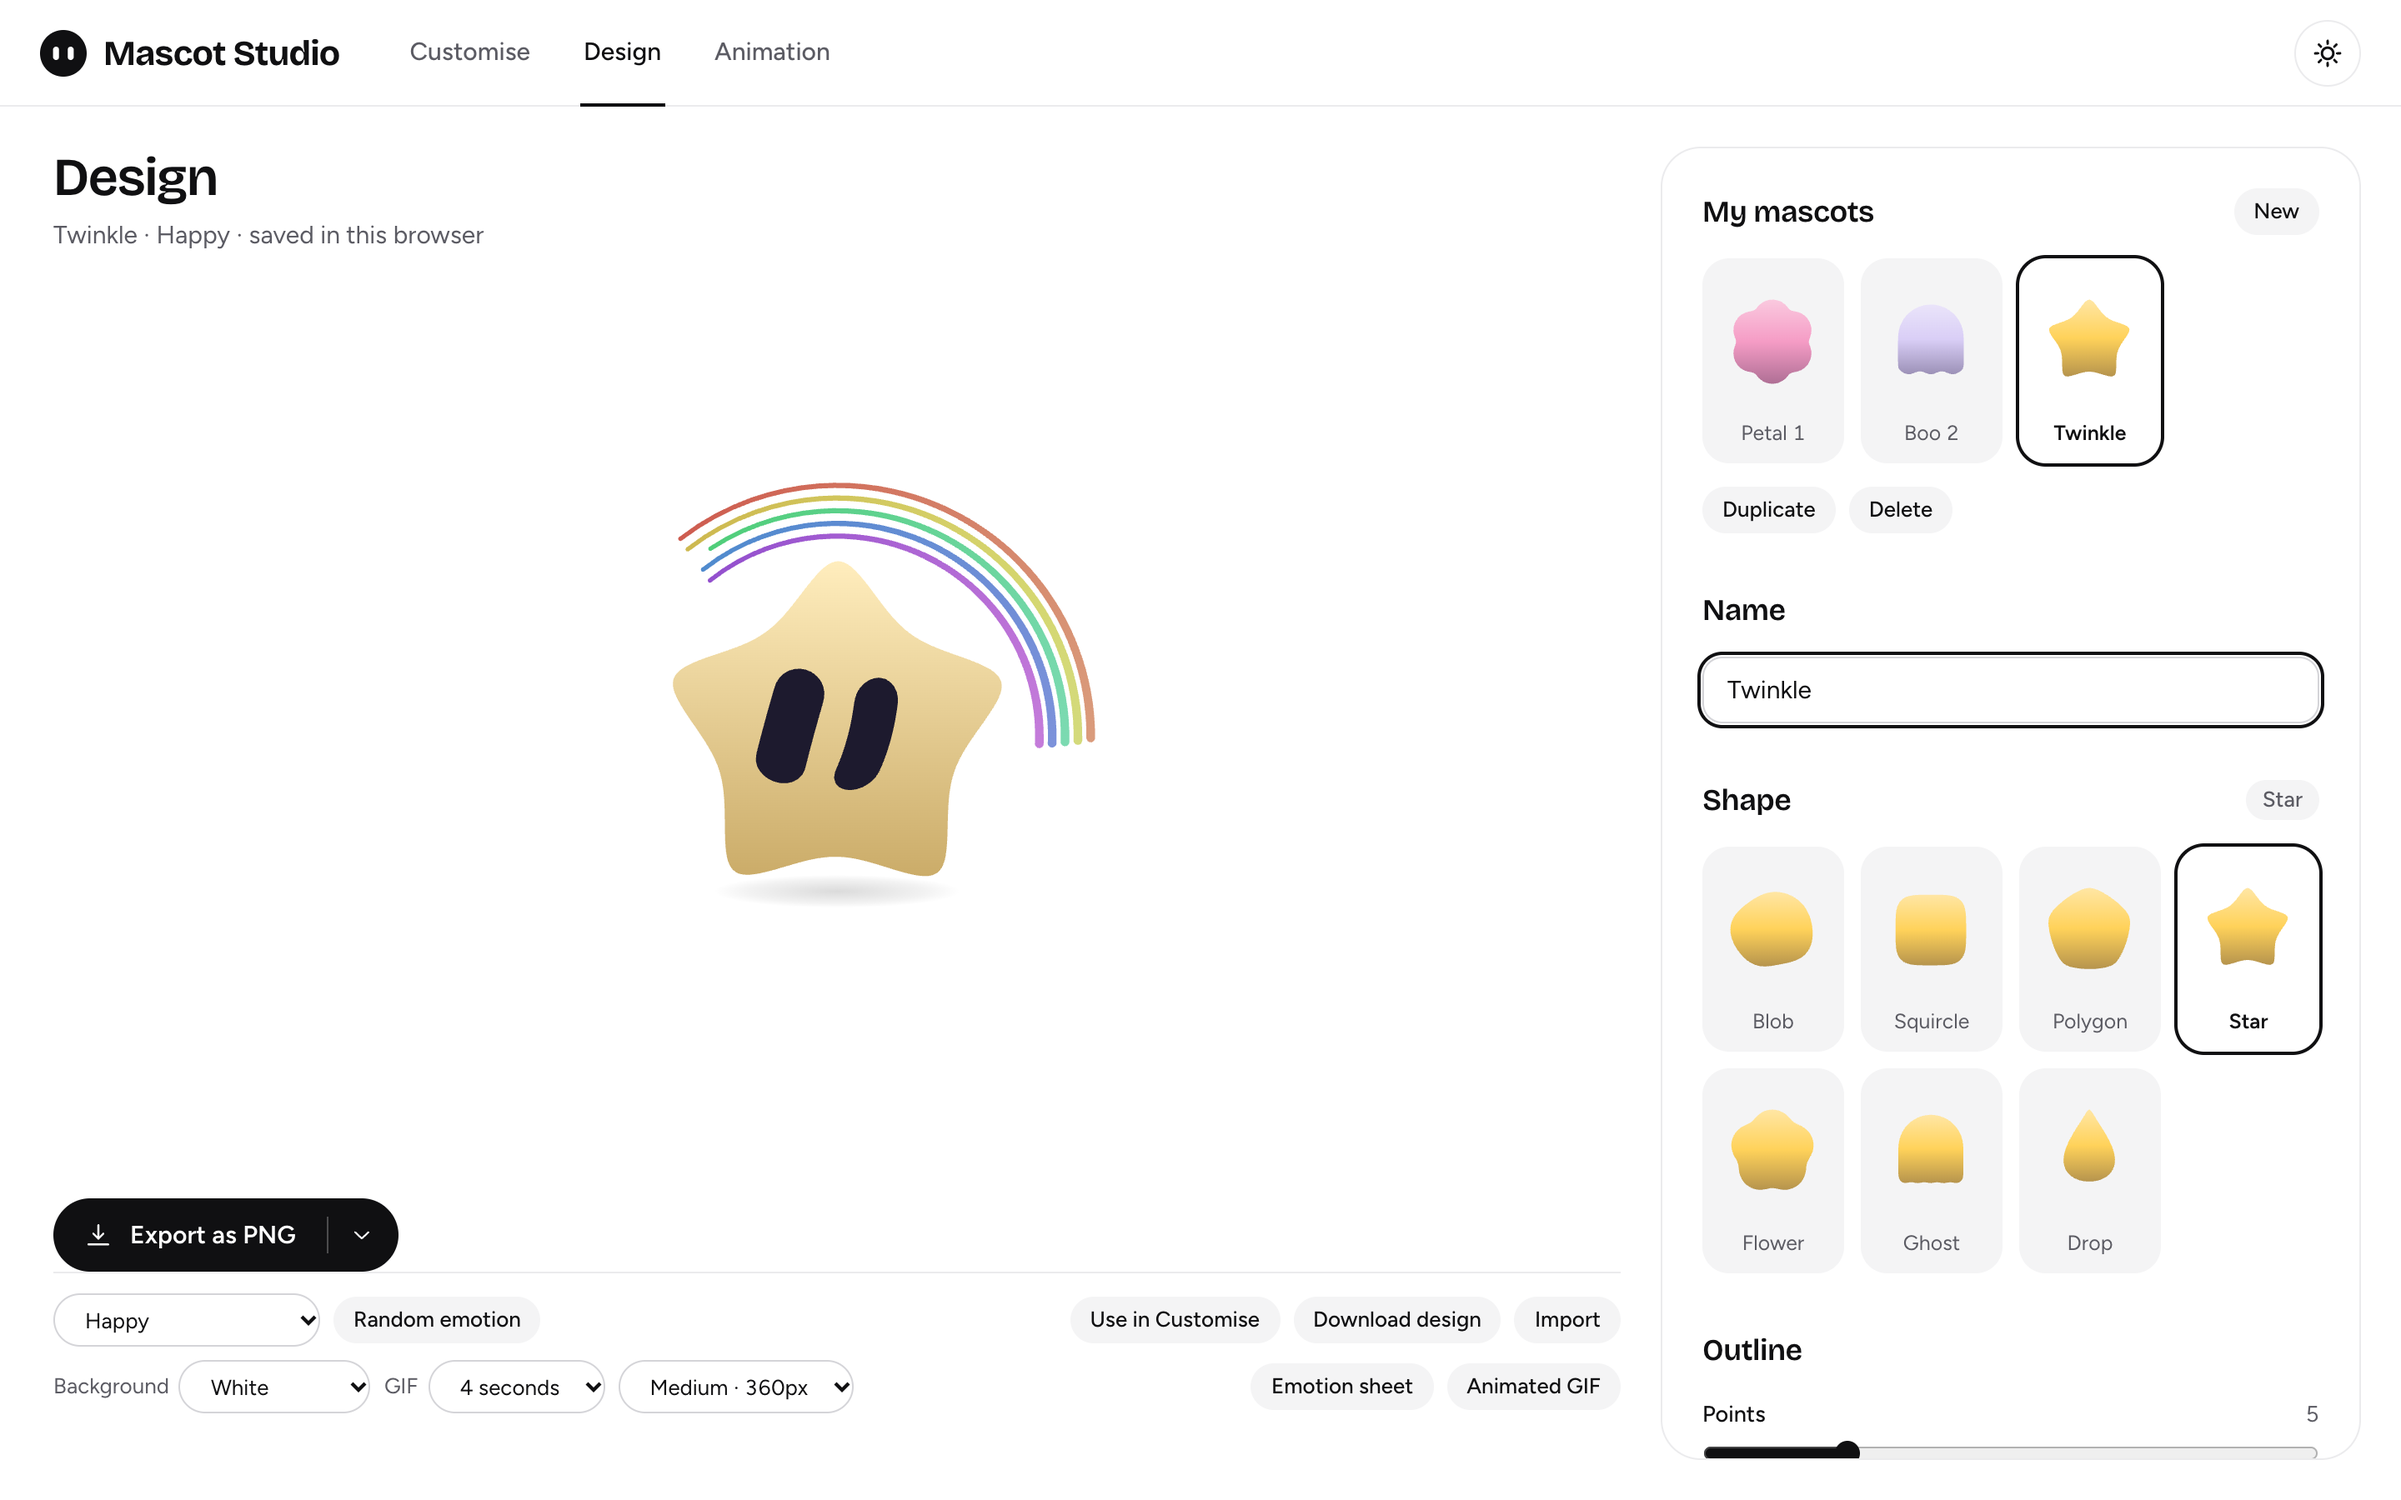
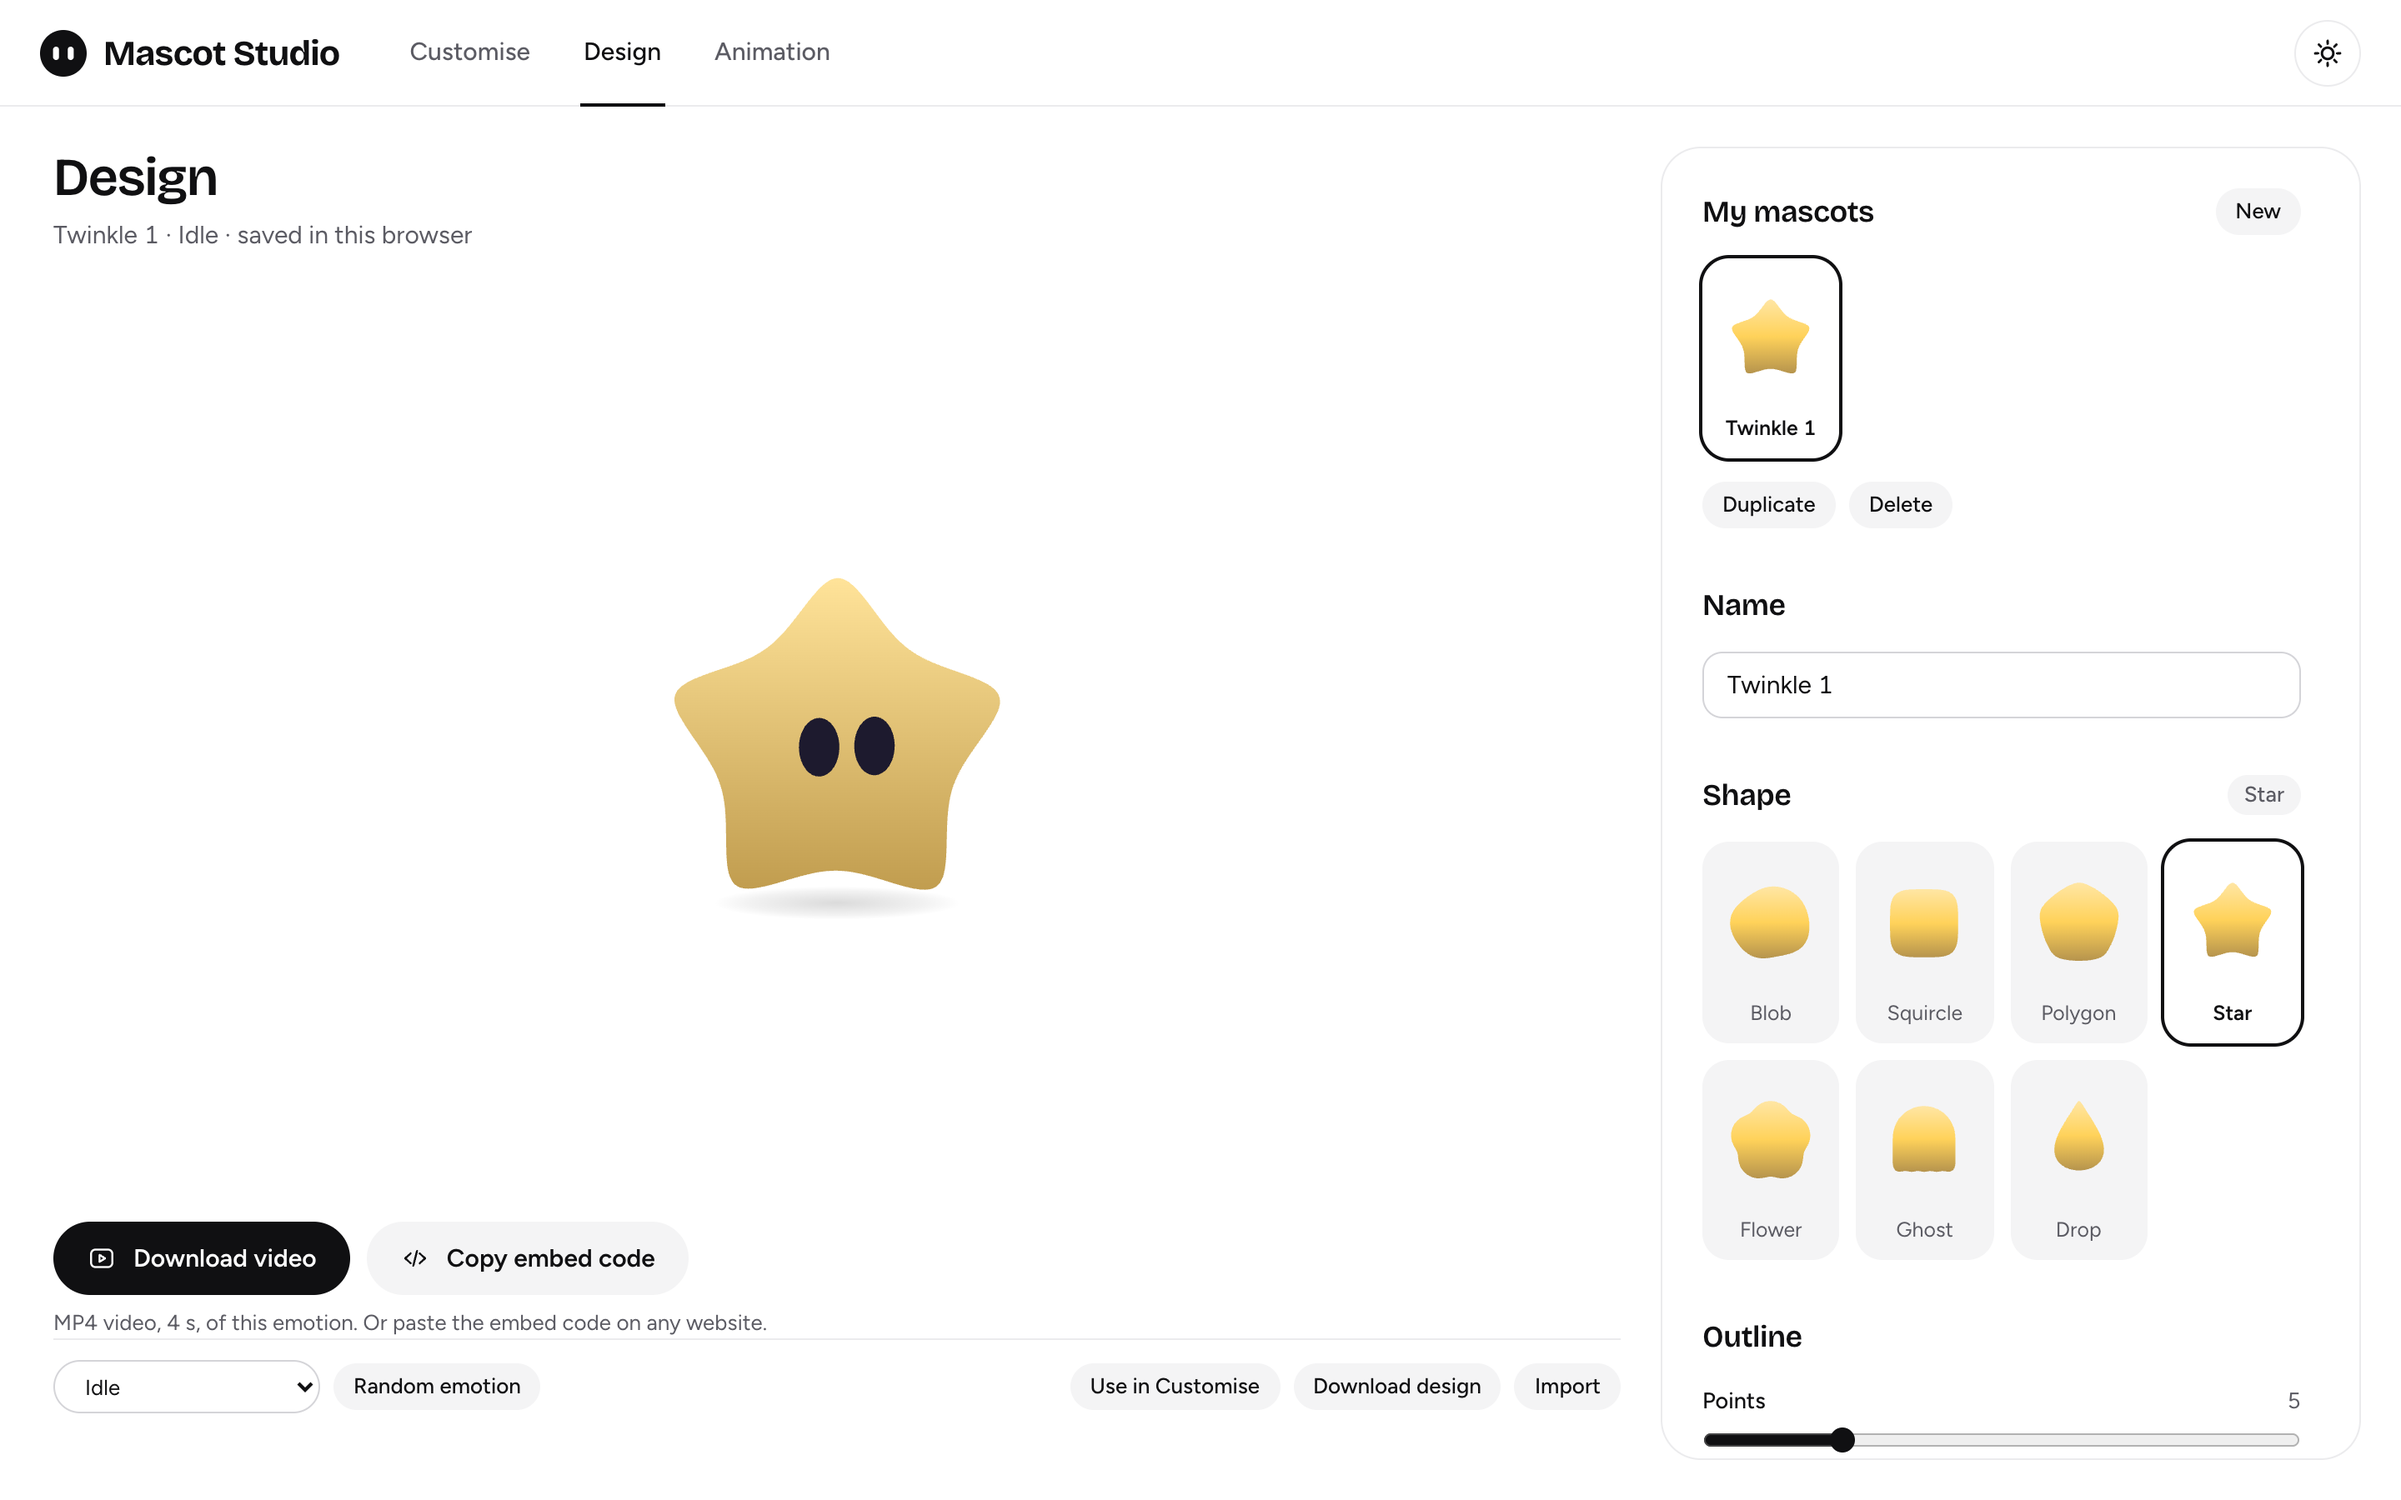
docs: document the video and embed exports and refresh the studio screenshots
Replace the old exports table with the two buttons, add the copy-paste embed
snippet and a tested React component, and note that the studio hosts the
libraries and that production sites should host their own copy. Refresh the
four screenshots that still showed the removed export menu.

diff --git a/README.md b/README.md
@@ -61,7 +61,7 @@ Open the **Design** tab (`http://localhost:5173/#design`) and pick a starting sh
 1. **Pick a template:** Blob, Squircle, Polygon, Star, Flower, Ghost or Drop.
 2. **Sculpt it** with the controls below.
 3. **Preview any emotion** from the dropdown, or press **Random emotion**.
-4. **Export it** or press **Use in Customise** to recolour it and build an animation timeline with it.
+4. **Download a video or copy the embed code**, or press **Use in Customise** to recolour it and build an animation timeline with it.
 
 | Section | What you can change |
 | --- | --- |
@@ -72,8 +72,8 @@ Open the **Design** tab (`http://localhost:5173/#design`) and pick a starting sh
 | Eyes | Colour, left/right and up/down position, spacing, size, and tall or wide |
 
 <div align="center">
-<img src="docs/screenshots/design-love-strike.gif" alt="An animated GIF of the custom star mascot playing the Love Strike emotion, exported from the Design tab" width="240">
-<br><sub>Exported straight from the Design tab: <b>Animated GIF</b>, Love Strike, 4 seconds.</sub>
+<img src="docs/screenshots/design-love-strike.gif" alt="A custom star mascot playing the Love Strike emotion" width="240">
+<br><sub>A custom star mascot playing Love Strike.</sub>
 </div>
 
 **Saved in your browser.** Designs are stored in `localStorage` under `mascot-studio.designs.v1`, so they are still there after a reload with no login. Up to 40 designs fit, and each can be duplicated or deleted (Delete asks for a second click). Clearing site data or using a private window starts you fresh, so download the ones you want to keep.
@@ -143,8 +143,8 @@ A React app for trying every mascot before you wire one into your product.
 
 - **Customise:** pick a character, an eye colour and any of its emotions, and recolour the body.
 - **Design:** build your own mascot from a template with live 3D preview. It is saved in your browser and works everywhere in the studio. See [Design your own mascot in the browser](#design-your-own-mascot-in-the-browser).
-- **Animation:** build a timeline of 2-second clips, play it back, and export the whole timeline as a GIF.
-- **Export:** download a PNG, SVG or animated GIF, or copy the image or the SVG code to the clipboard.
+- **Animation:** build a timeline of 2-second clips and play it back.
+- **Export:** on every tab, download an MP4 video or copy a one-paste embed code. See [Exports](#exports).
 - **Themes:** light and dark.
 
 <div align="center">
@@ -154,18 +154,72 @@ A React app for trying every mascot before you wire one into your product.
 
 ### Exports
 
-| Export | Where | Output |
-| --- | --- | --- |
-| PNG | Export menu on Customise, Design and Animation | 1024 × 1024, transparent |
-| SVG | Export menu | Vector, sharp at any size |
-| Copy image / Copy SVG code | Export menu | PNG or SVG markup on the clipboard |
-| GIF | Export menu on Customise and Design | 512 × 512, 25 fps, 4 s loop of the current emotion, on the studio background or transparent |
-| Timeline GIF | **Export as GIF** on Animation | 512 × 512, 25 fps, every clip in order with the transitions between them |
-| Custom GIF | **Animated GIF** on Design | 2, 4 or 6 s; 240, 360 or 480 px; white, dark or transparent background |
-| Emotion sheet | **Emotion sheet** on Design | One PNG with every emotion's pose, labelled with its name and ID |
-| Design file | **Download design** on Design | A `.mascot.json` file you can import again |
+Customise, Design and Animation all end in the same two buttons.
 
-GIFs keep your recolour and eye colour. They are rendered off-screen on a fixed 25 fps clock, so they come out the same however busy the page is, and the live preview keeps running. GIF files are large (about 1.4 MB for a 4-second loop at 512 px). Transparent GIFs only support fully clear or fully solid pixels, so their edges are a little jagged; the background version is the smoother one.
+| Button | What you get |
+| --- | --- |
+| **Download video** | An MP4 (H.264, 512 × 512, 30 fps) that plays in any browser, phone, Slack, WhatsApp, PowerPoint or video player. Customise and Design record 4 seconds of the character, colours and emotion you have selected. Animation records your whole timeline, every clip in order, transitions and effects included. The background follows the studio theme. |
+| **Copy embed code** | One snippet that puts the live mascot on any website, with the same character, colours and emotion. On the Animation tab it plays your timeline on a loop. You can switch emotions yourself with `bot.setEmotion('10')`. |
+
+```html
+<div id="mascot-x7k2p" style="width:240px;height:240px"></div>
+<script src="https://your-studio.example.com/mood-mates.js"></script>
+<script>
+  var bot = MoodMates.create(document.getElementById('mascot-x7k2p'), {
+    character: 'pumpkin',
+    color: '#E11D48'
+  });
+  bot.setEmotion('10');
+</script>
+```
+
+An Animation timeline with several clips becomes `bot.startTour(['10', '30', '33'], 2000)` instead, which plays the clips in order, 2 seconds each, and repeats.
+
+Each copy gets its own id, so you can paste several mascots on one page. The studio serves its own copy of the libraries at `/mood-mates.js` and `/emotion-ball.js`, so the snippet works as soon as the studio is deployed. For production, copy those files next to your site and change the `src`: otherwise your mascot stops if the studio goes offline. Mascots from the Design tab work the same way: the snippet carries the design as a few hundred characters of JSON.
+
+**In React or Next.js**, do not paste the snippet into JSX (scripts inside JSX never run). Load the library once and create the mascot in an effect. Call `destroy()` in the cleanup, otherwise `StrictMode` shows two mascots:
+
+```jsx
+import { useEffect, useRef } from 'react';
+
+const LIBRARY = 'https://your-studio.example.com/mood-mates.js';
+let loading;
+
+function loadLibrary() {
+  loading ??= new Promise((resolve, reject) => {
+    const script = document.createElement('script');
+    script.src = LIBRARY;
+    script.onload = resolve;
+    script.onerror = reject;
+    document.head.appendChild(script);
+  });
+  return loading;
+}
+
+export function Mascot({ character = 'pumpkin', color, emotion = '10' }) {
+  const host = useRef(null);
+
+  useEffect(() => {
+    let bot;
+    let stopped = false;
+    loadLibrary().then(() => {
+      if (stopped) return;
+      bot = window.MoodMates.create(host.current, { character, color });
+      bot.setEmotion(emotion);
+    });
+    return () => {
+      stopped = true;
+      bot?.destroy();
+    };
+  }, [character, color, emotion]);
+
+  return <div ref={host} style={{ width: 240, height: 240 }} />;
+}
+```
+
+A site with a strict Content Security Policy must allow the script's address and an inline `style` on the container, or give the container its size from a CSS class instead.
+
+Videos are recorded off-screen on a fixed clock, so they look the same however busy the page is. Recording needs a browser that can encode video with WebCodecs (tested in Chrome). If yours cannot, the studio says so and the embed code still works. The embed code is the only option that keeps a transparent background. **Download design** on the Design tab saves a small `.mascot.json` file you can import again.
 
 
 ## Quick start
@@ -204,11 +258,14 @@ src/engine/emotion-ball/       Grok bot ball engine
 src/engine/mood-mates/         engine for Nubby, Stampy, Pumpkin, Woody, Peaky, Ghosty, Bloom and Hexo
   characters/<name>/           one folder per character: shape, eyes, emotions, clips
   characters/rim.ts            shared recipe for outline-based 3D characters (Peaky, Ghosty, Bloom, Hexo)
+  design.ts                    compiles a Design-tab mascot into a character; also used by the embed library
   solid/                       shared 3D solid renderer (slabs, limbs, inflated outlines)
 src/engine/shared/             code shared by both engines
 src/app/                       Mascot Studio (React): App, components, export, theme
-  designer/                    Design tab: shapes, compiling a design into a character, browser storage
-  mediaExport.ts               off-screen GIF and emotion sheet renderer
+  designer/                    Design tab: browser storage for saved designs
+  videoExport.ts               off-screen MP4 recorder
+  embed.ts                     builds the copy-paste embed code
+scripts/publish-embed.mjs      copies the two libraries into dist so the studio serves them
 src/styles/app.css             the studio's styles, light and dark tokens
 docs/screenshots/              images used in this README
 ```
